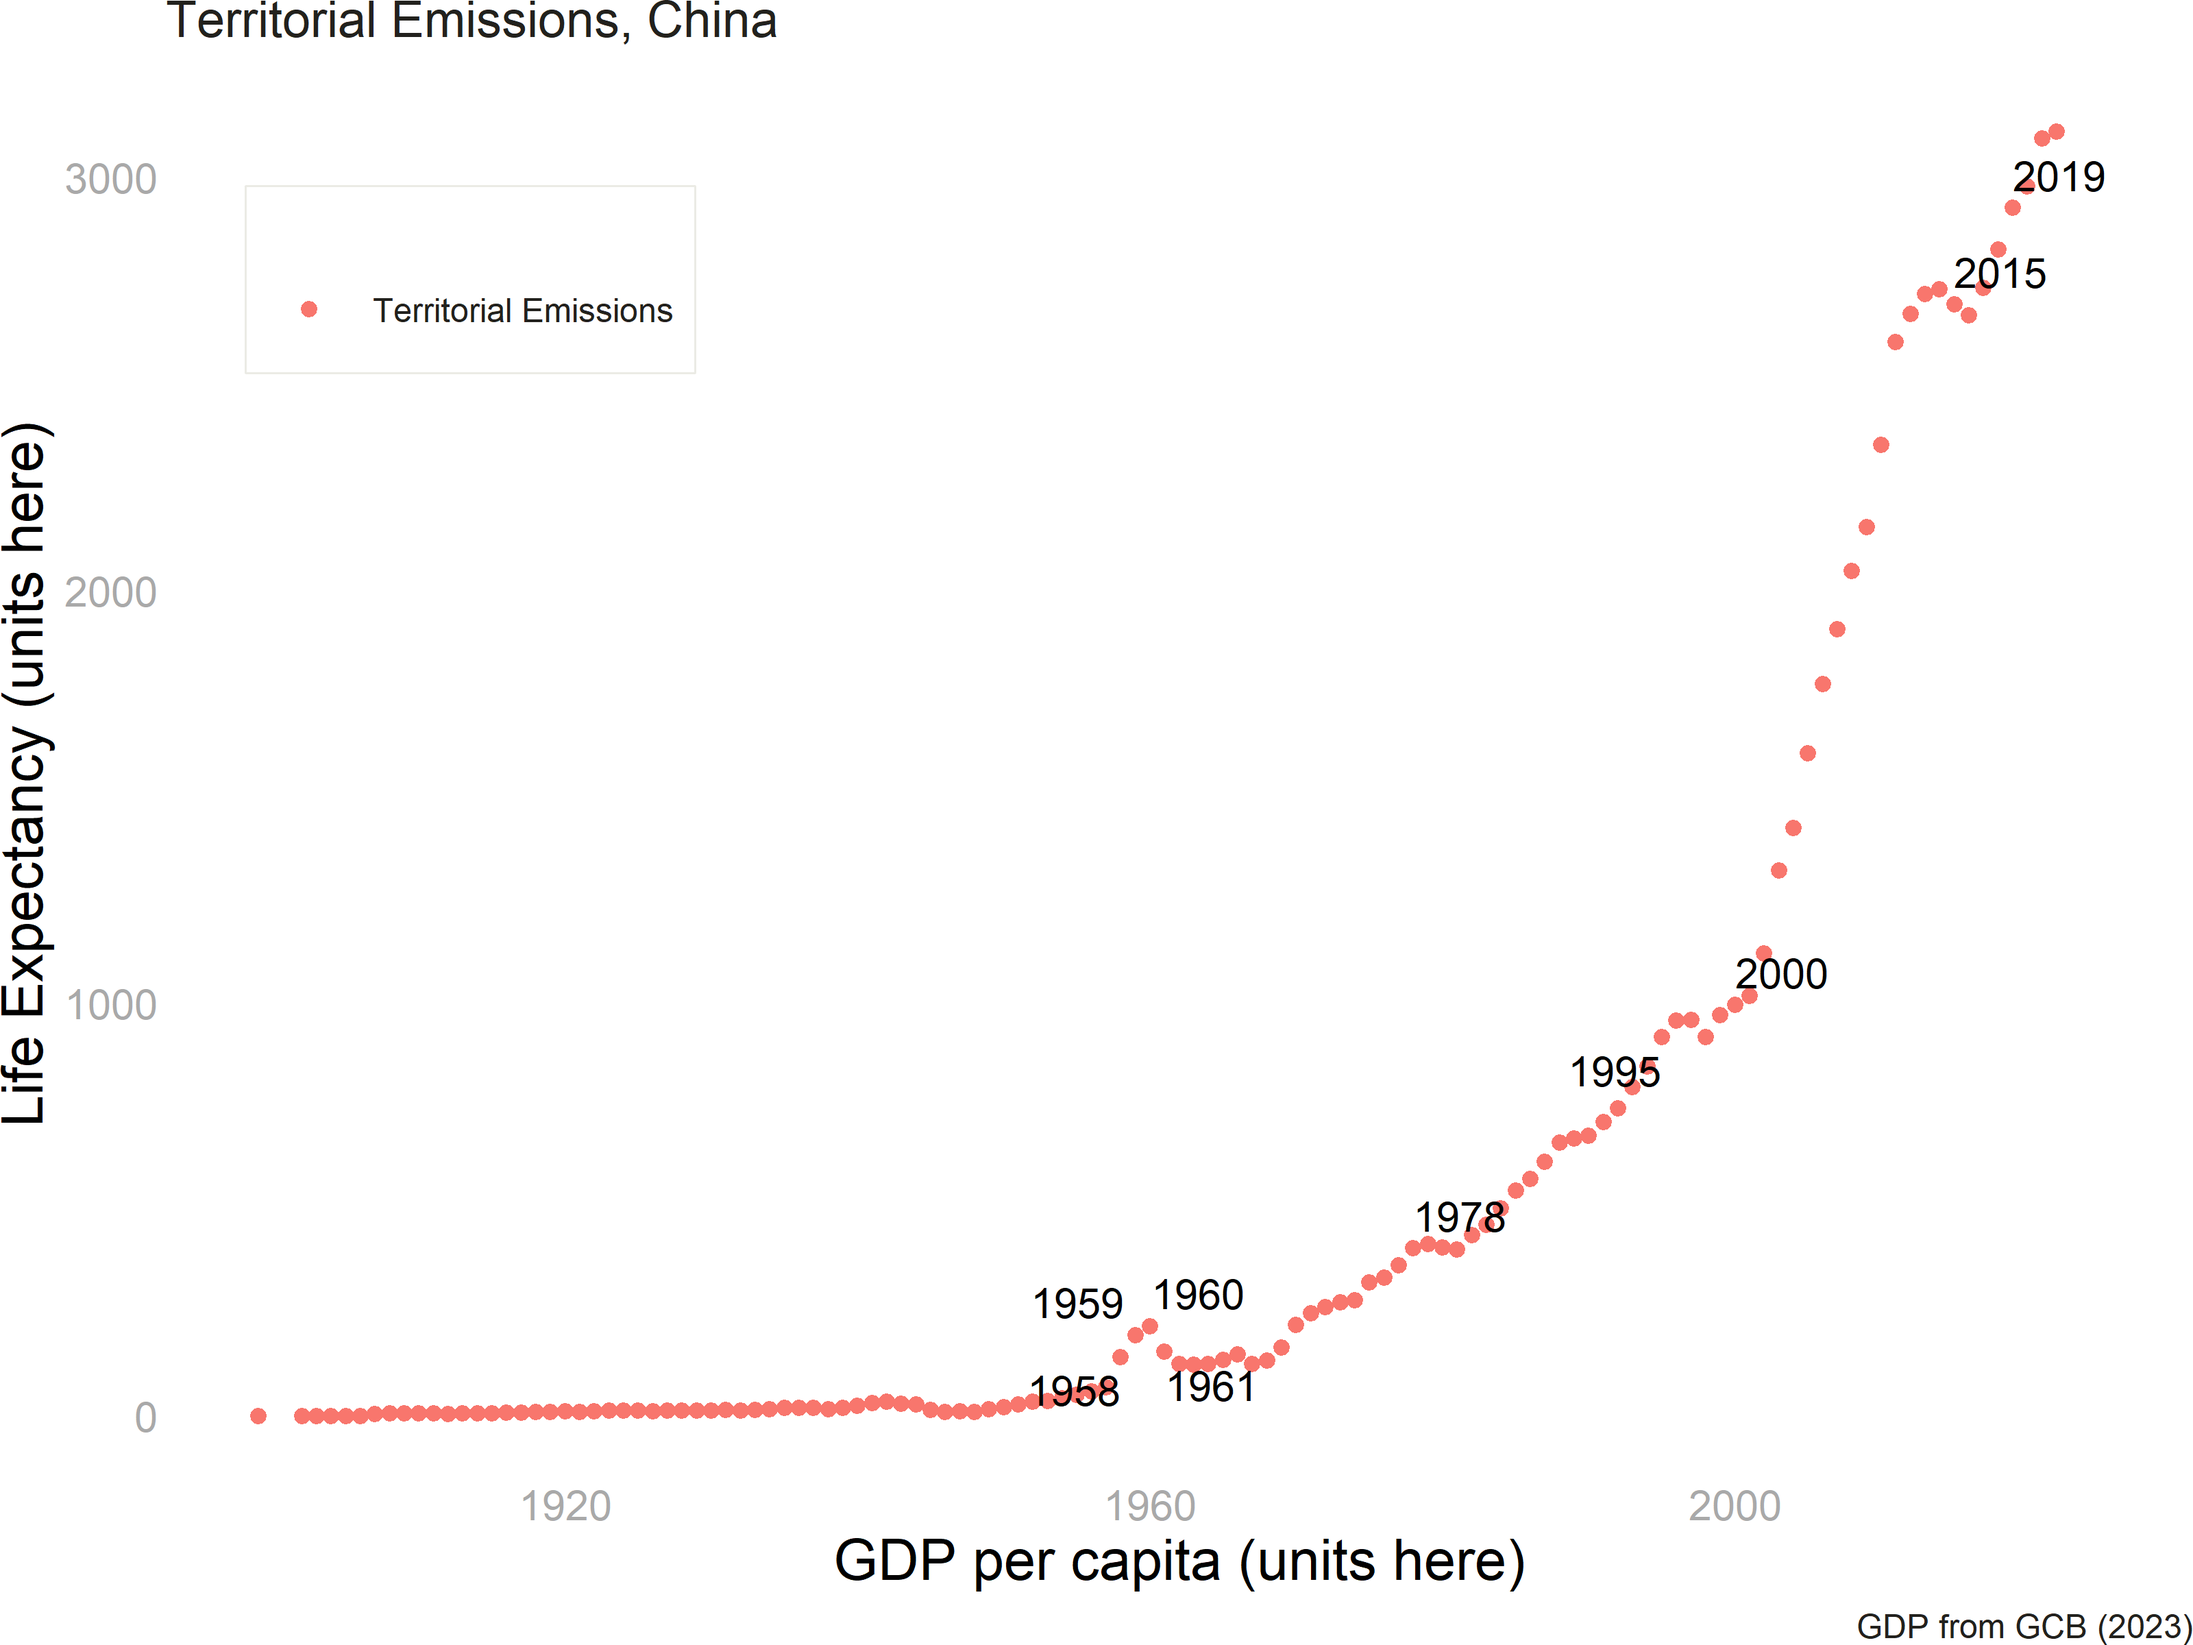
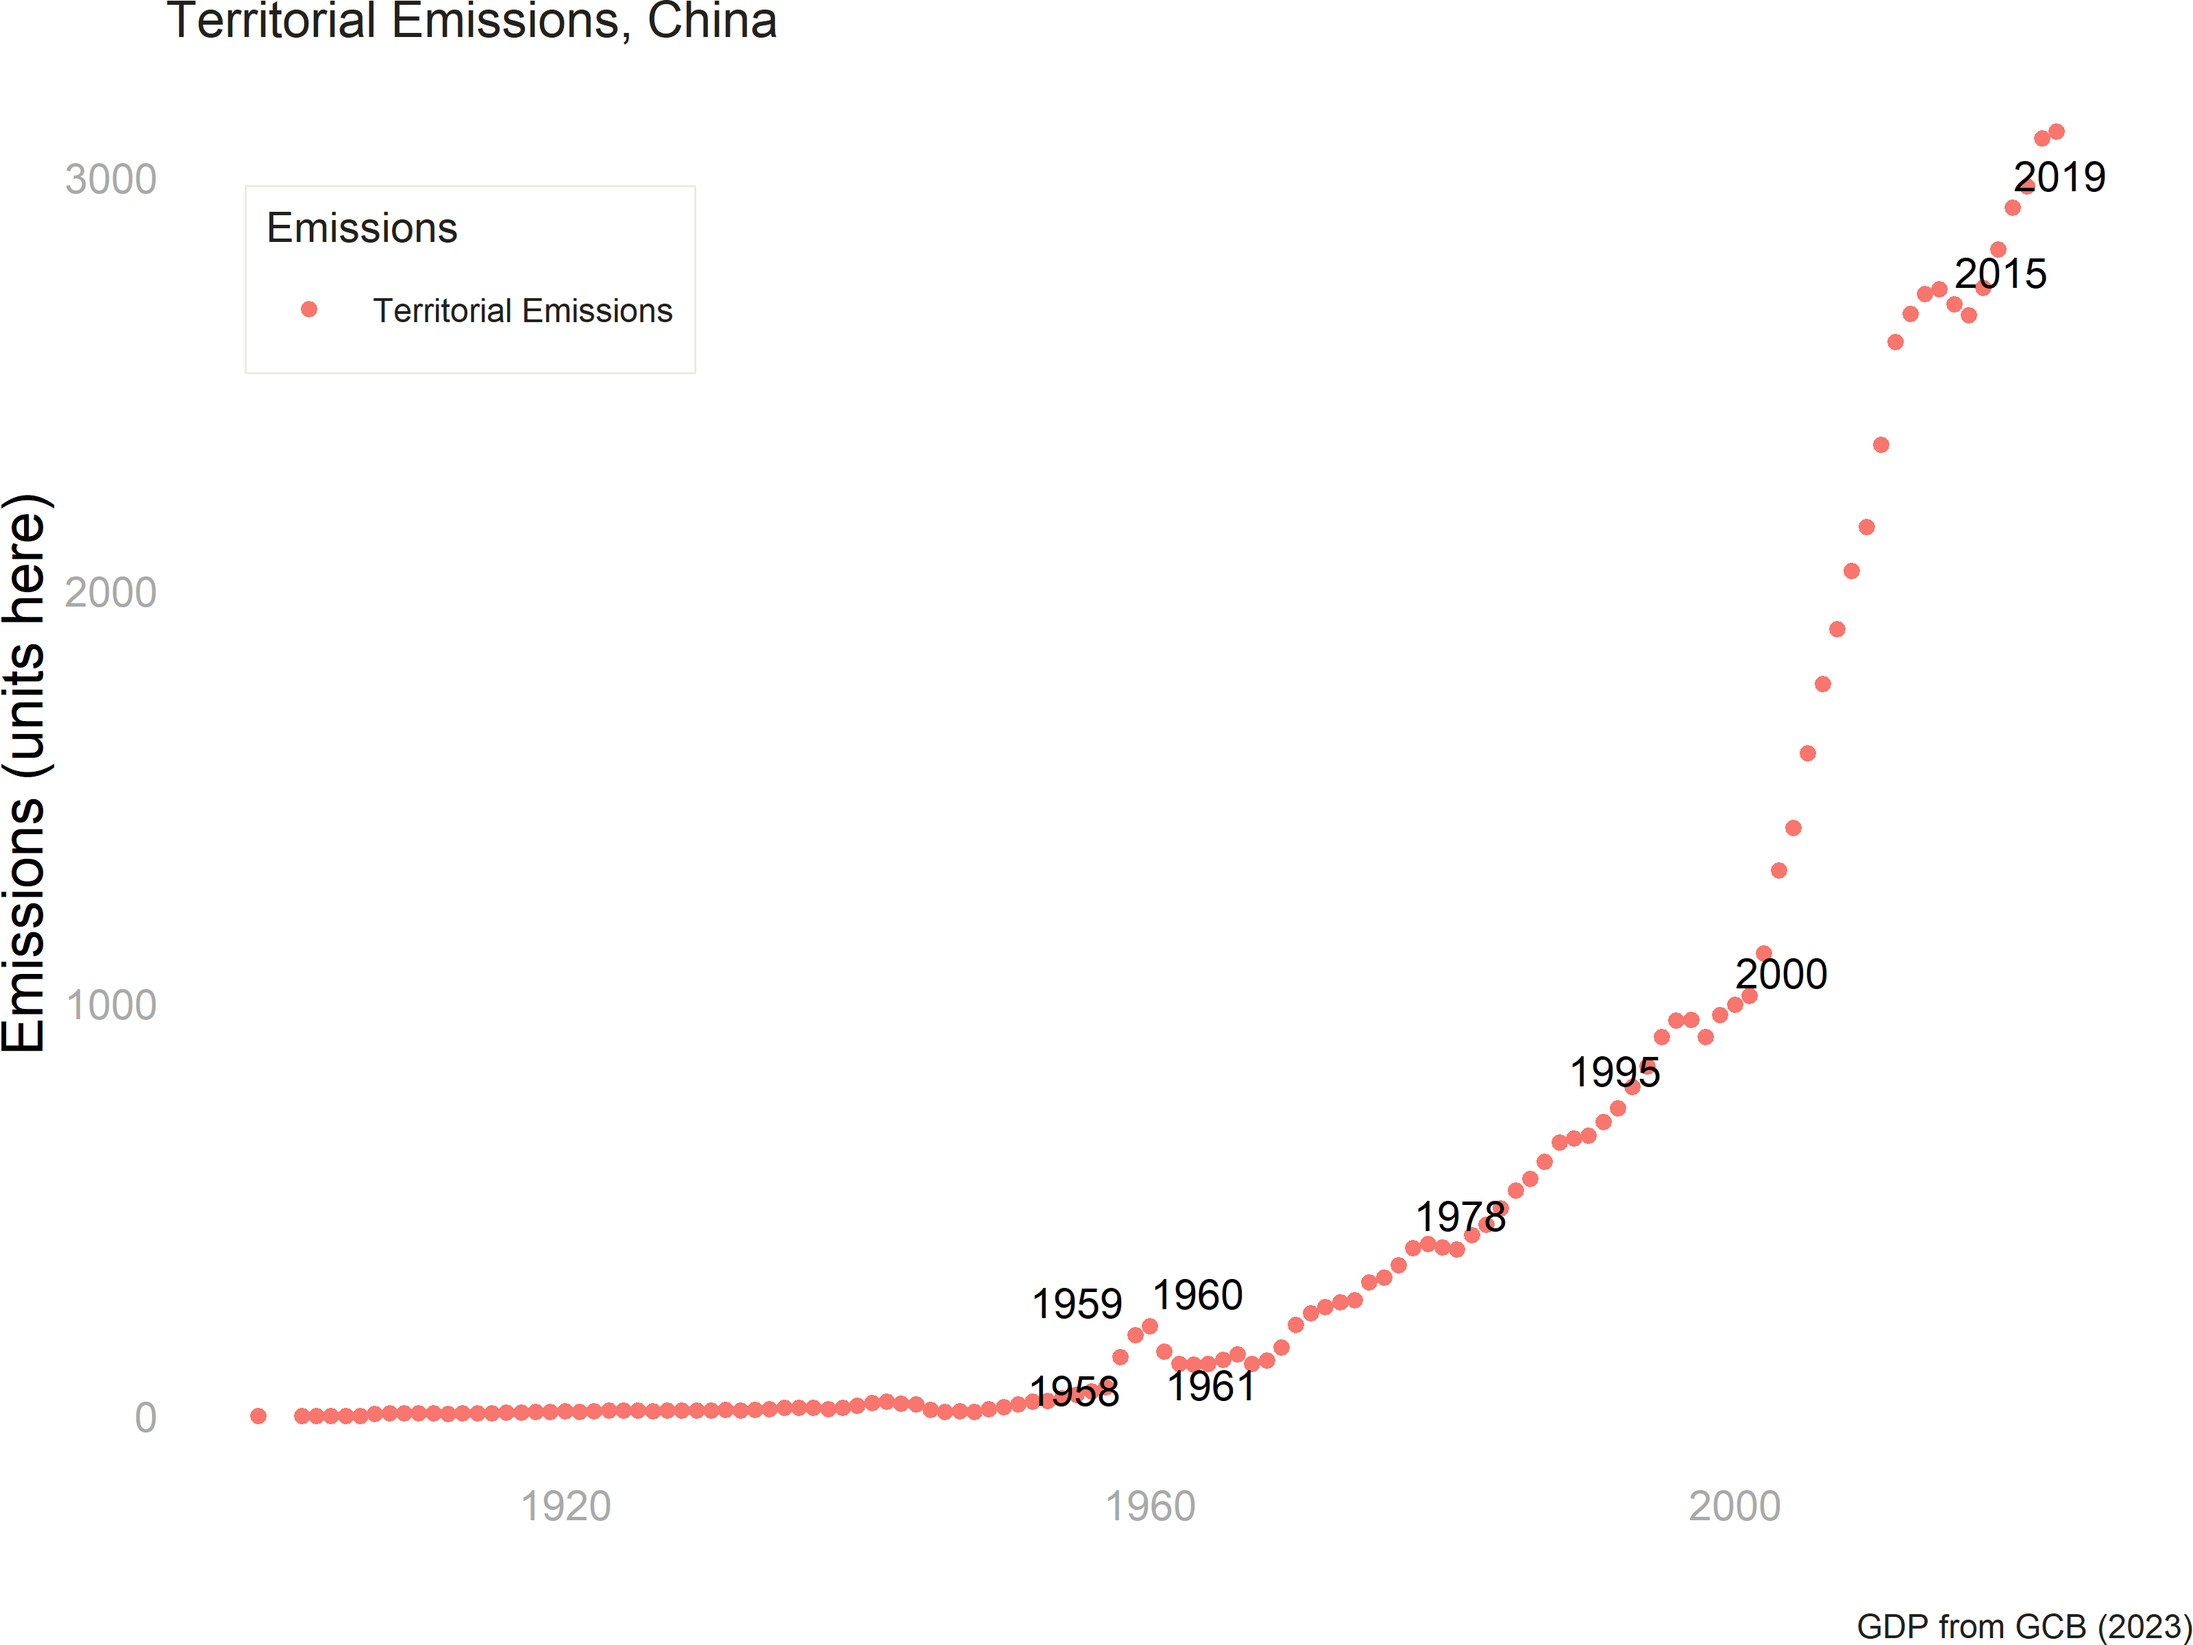
File input figures

diff --git a/vignettes/basic-plotting.md b/vignettes/basic-plotting.md
@@ -186,9 +186,9 @@ my_plot <- ggplot2::ggplot(data = data_country,
                   max.overlaps = 17)+ # a lower number will give fewer total labels; higher will put more labels in
   ggplot2::labs(title = paste0("Territorial Emissions, ",chosen_country_name),
        caption = c("GDP from GCB (2023)"),
-       x ="GDP per capita (units here)" ,
-       y = "Life Expectancy (units here)",
-       color = "" # sets legend name
+       x ="" ,
+       y = "Emissions (units here)",
+       color = "Emissions" # sets legend name
   )+
   # xlab() +
   # ylab() +
@@ -206,16 +206,7 @@ my_plot <- ggplot2::ggplot(data = data_country,
 
 You can see the plot in your console by just typing `my_plot` in the console.
 
-
-``` r
-url <- "https://github.com/stallman-j/ekonomR/blob/main/output/02_figures/gcb_territorial_emissions_China.png?raw=true"
-knitr::include_graphics(url)
-```
-
-<div class="figure">
-<img src="https://github.com/stallman-j/ekonomR/blob/main/output/02_figures/gcb_territorial_emissions_China.png?raw=true" alt="plot of chunk unnamed-chunk-14" width="300px" />
-<p class="caption">plot of chunk unnamed-chunk-14</p>
-</div>
+![plot of chunk unnamed-chunk-14](https://github.com/stallman-j/ekonomR/blob/main/output/02_figures/gcb_territorial_emissions_China.png?raw=true)
 
 
 Now let's save the map, with a function from `ekonomR` that uses the ggplot2's `ggsave` with some simple defaults
